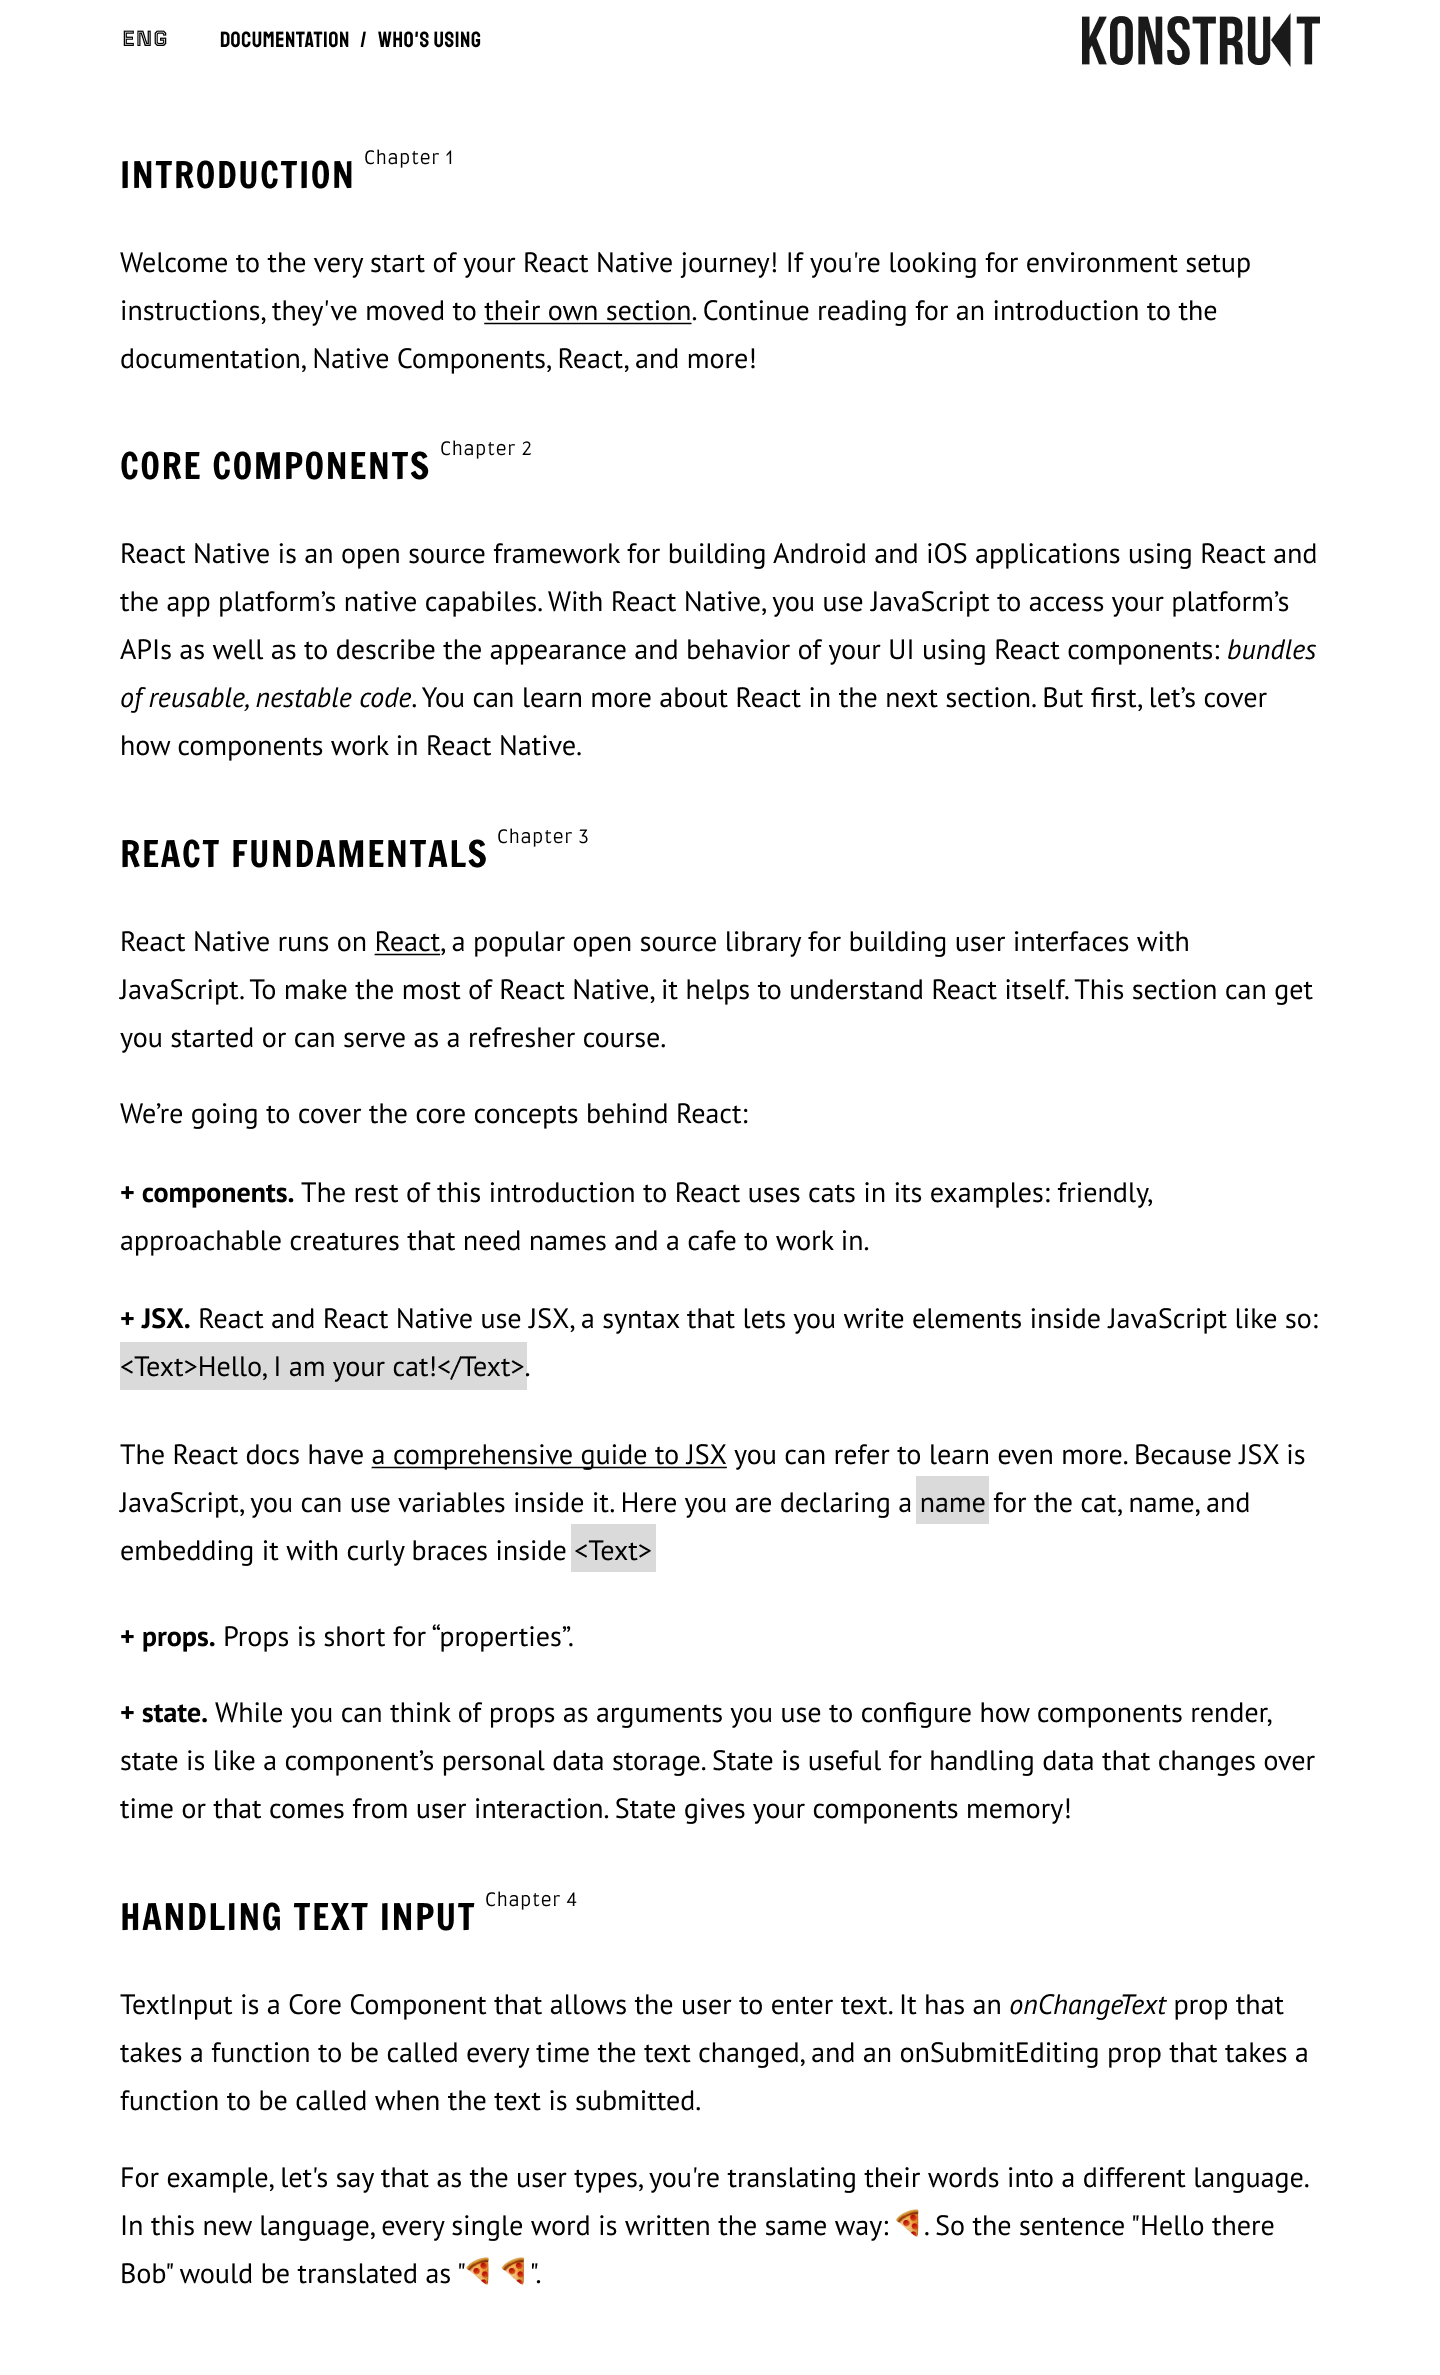
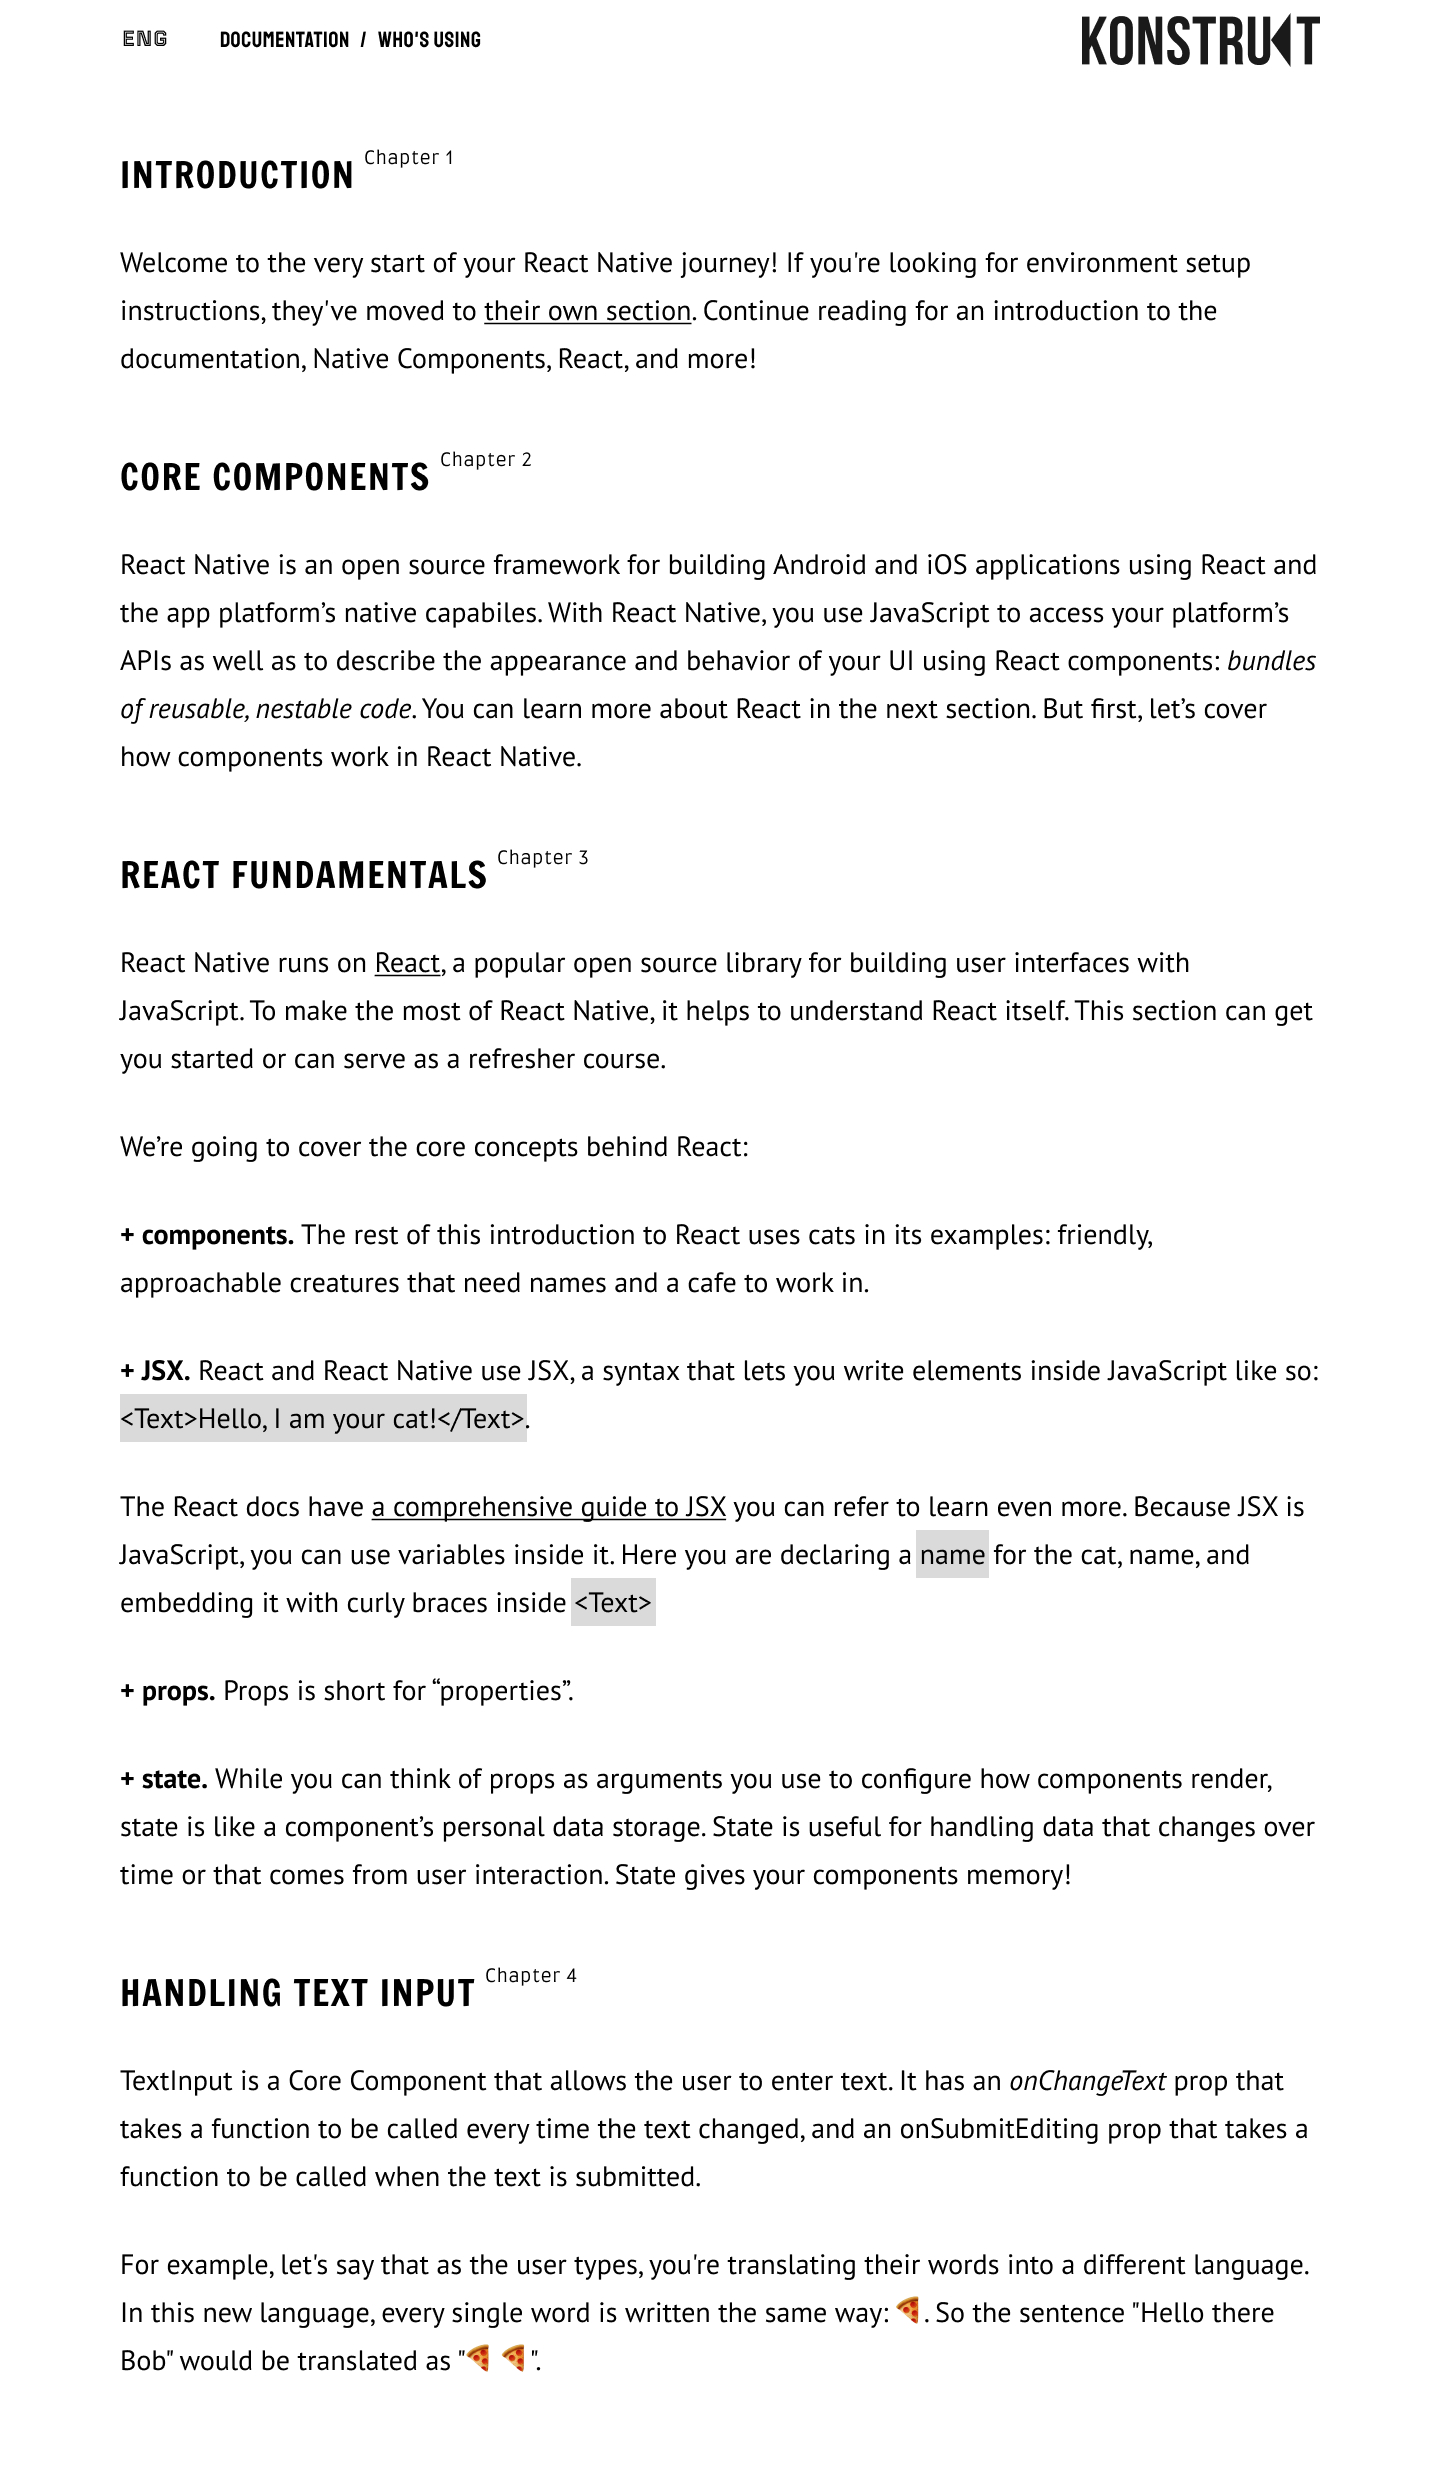
l13 final

diff --git a/lesson_13/index_13.html b/lesson_13/index_13.html
@@ -74,6 +74,19 @@
                     components memory!
                 </p>
             </section>
+            <section>
+                <h2>Handling text input <sup>Chapter 4</sup></h2>
+                <p>TextInput is a Core Component that allows the user to enter text. It has an <span
+                        class="italic">onChangeText</span> prop that
+                    takes a function to be called every time the text changed, and an onSubmitEditing prop that takes a
+                    function to be called when the text is submitted.
+                </p>
+                <p>
+                    For example, let's say that as the user types, you're translating their words into a different
+                    language. In this new language, every single word is written the same way: <span class="pizza">🍕</span>. So the sentence
+                    "Hello there Bob" would be translated as "<span class="pizza">🍕 🍕</span>".
+                </p>
+            </section>
         </div>
     </main>
 

diff --git a/lesson_13/assets/css/styles.css b/lesson_13/assets/css/styles.css
@@ -25,7 +25,7 @@ header .container {
 }
 
 section {
-    margin-bottom: 41px;
+    margin-bottom: 52px;
 }
 
 h2 {
@@ -48,7 +48,7 @@ h2 sup {
 p {
     font-size: 1.75rem;
     line-height: 3rem;
-    margin-bottom: 30px;
+    margin-bottom: 40px;
 }
 
 .container {
@@ -100,7 +100,11 @@ p {
 
 .bg-gray {
     background-color: #DADADA;
-    /* line-height: 1.5em; */
+}
+
+.pizza {
+    font-size: 0.75em;
+    line-height: 0.9em;
 }
 
 @font-face {
